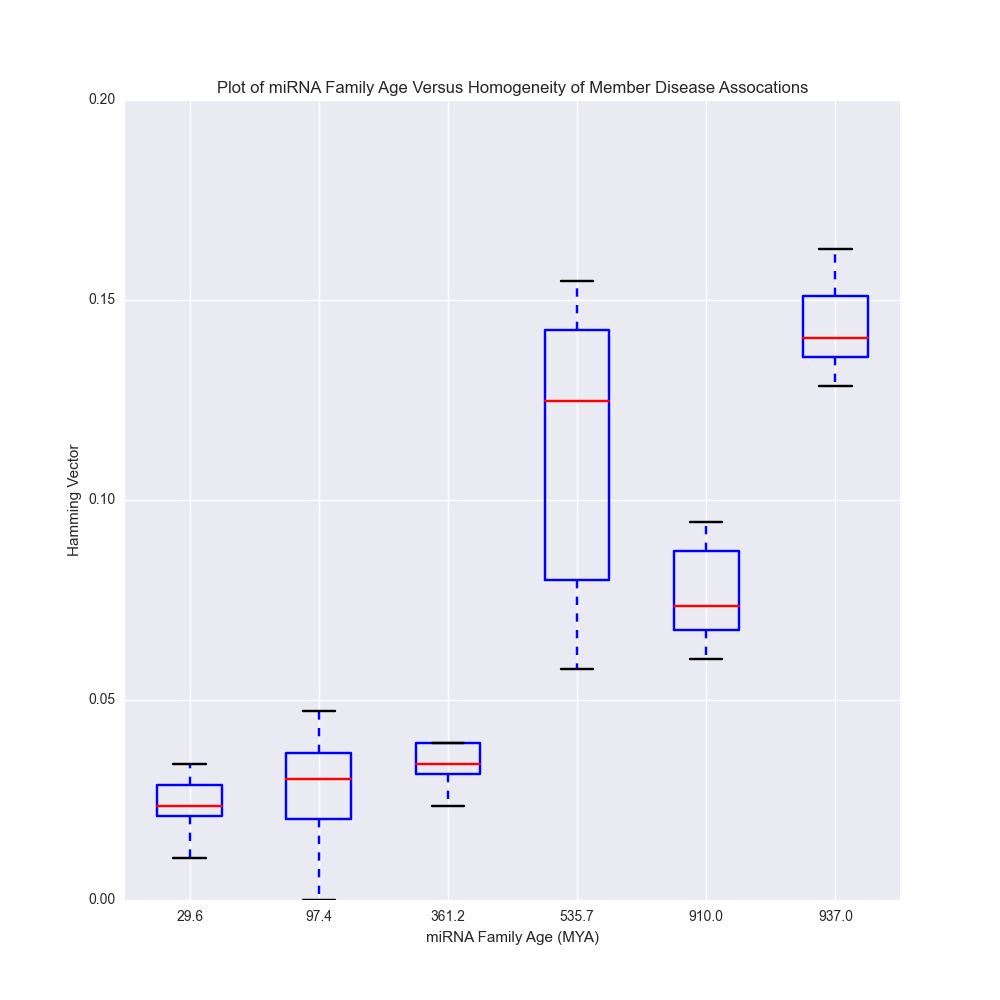
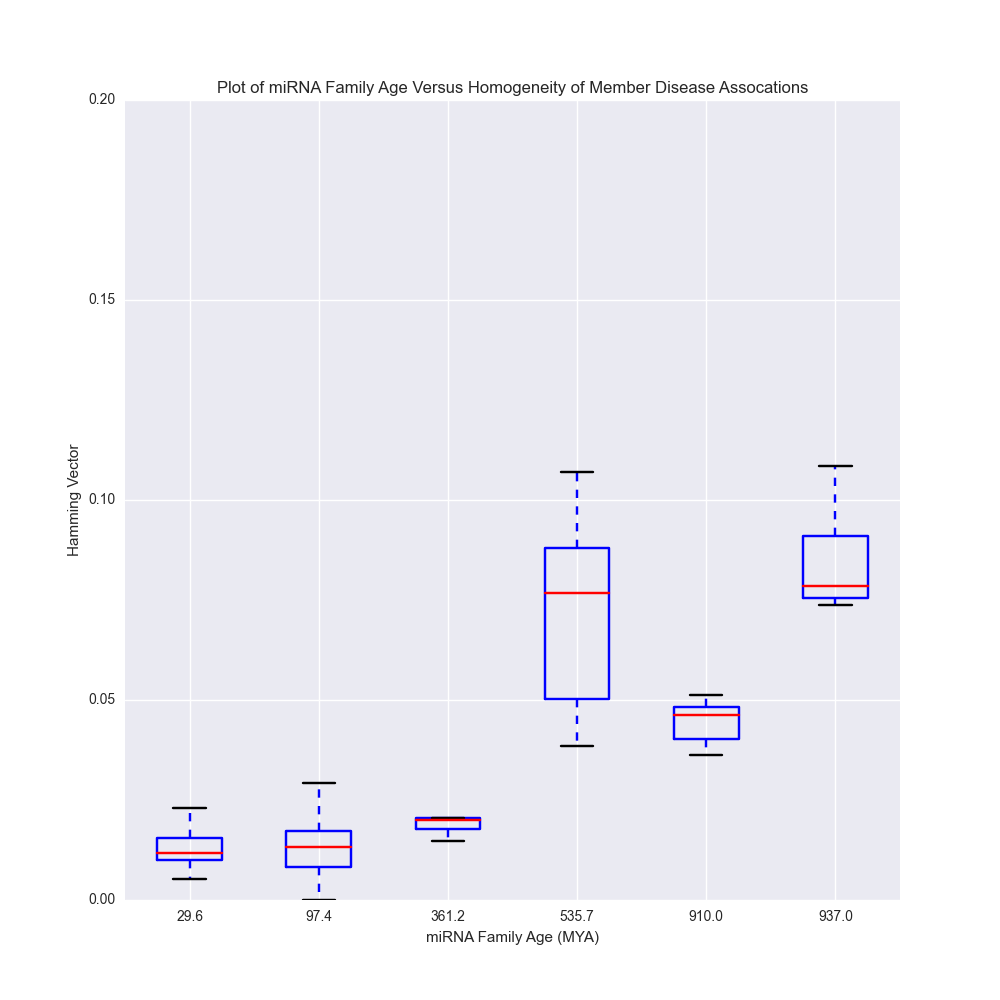
update

diff --git a/main_script/mirVIR.py b/main_script/mirVIR.py
@@ -223,7 +223,7 @@ def disease_number_correlations(mirna2disease,mirna2age):
 
 
 	print len([i for i in mirna2disease.keys() if i in mirna2age])
-	print len(mirna2age)
+	print len([prim for prim in mirna2age if float(mirna2age[prim]) >= 44.2])
 
 	for mirna in mirna2disease:
 		age.append(mirna2age[mirna])
@@ -311,22 +311,22 @@ def hamming_distance(mirna2age, family2members, member2family_name,diseaselst, m
 		family2hamming_distances[fam] = family_vec[:]
 
 	family_average_age = []
-	mirna_max_hamming = []
+	mirna_avg_hamming = []
 
 	for mirna in mirna2family_hamming:
 		fam_name = member2family_name[mirna]	
 		family_average_age.append(mean([mirna2age[mirna] for mirna in family2disease_members[fam_name]]))
-		mirna_max_hamming.append( max(mirna2family_hamming[mirna]))
+		mirna_avg_hamming.append( mean(mirna2family_hamming[mirna]))
 
 	mirna_age2hamming = {}
 
 	for mirna in mirna2family_hamming:
-		mirna_age2hamming.setdefault(float(mirna2age[mirna]),[]).append(max(mirna2family_hamming[mirna]))
+		mirna_age2hamming.setdefault(float(mirna2age[mirna]),[]).append(mean(mirna2family_hamming[mirna]))
 
 
-	corr =  spearmanr(family_average_age, mirna_max_hamming)
+	corr =  spearmanr(family_average_age, mirna_avg_hamming)
 	fle = open('txtfles/corrs.txt','a')
-	fle.write('miRNA Family Age vs The Maximum Hamming Distance\t')
+	fle.write('miRNA Family Age vs The Average Hamming Distance\t')
 	fle.write(str(corr) + '\n')
 	fle.close()
 	labels = sorted(mirna_age2hamming.keys())
@@ -858,8 +858,21 @@ def extrathings(verified_dicts, mirna2age, age2mirna, disease2mirna, mirna2disea
 
 	print np.mean(percenta)
 
+	disease_mirnas_ages = [float(mirna2age[i]) for i in mirna2disease if i in mirna2age]
+	nondisease_mirnas_ages = [float(mirna2age[i]) for i in mirna2age if i not in mirna2disease]
+	print 'dis num', len(disease_mirnas_ages)
+	print 'non dis', len(nondisease_mirnas_ages)
+
+	print stats.mannwhitneyu(disease_mirnas_ages, nondisease_mirnas_ages)
 
 
+
+
+
+
+def figures(verified_dicts, mirna2age, age2mirna, disease2mirna, mirna2disease, age2disease, disease2age, family2members, member2family_name, gene2age):
+	print 'vir'
+	
 
 
 
